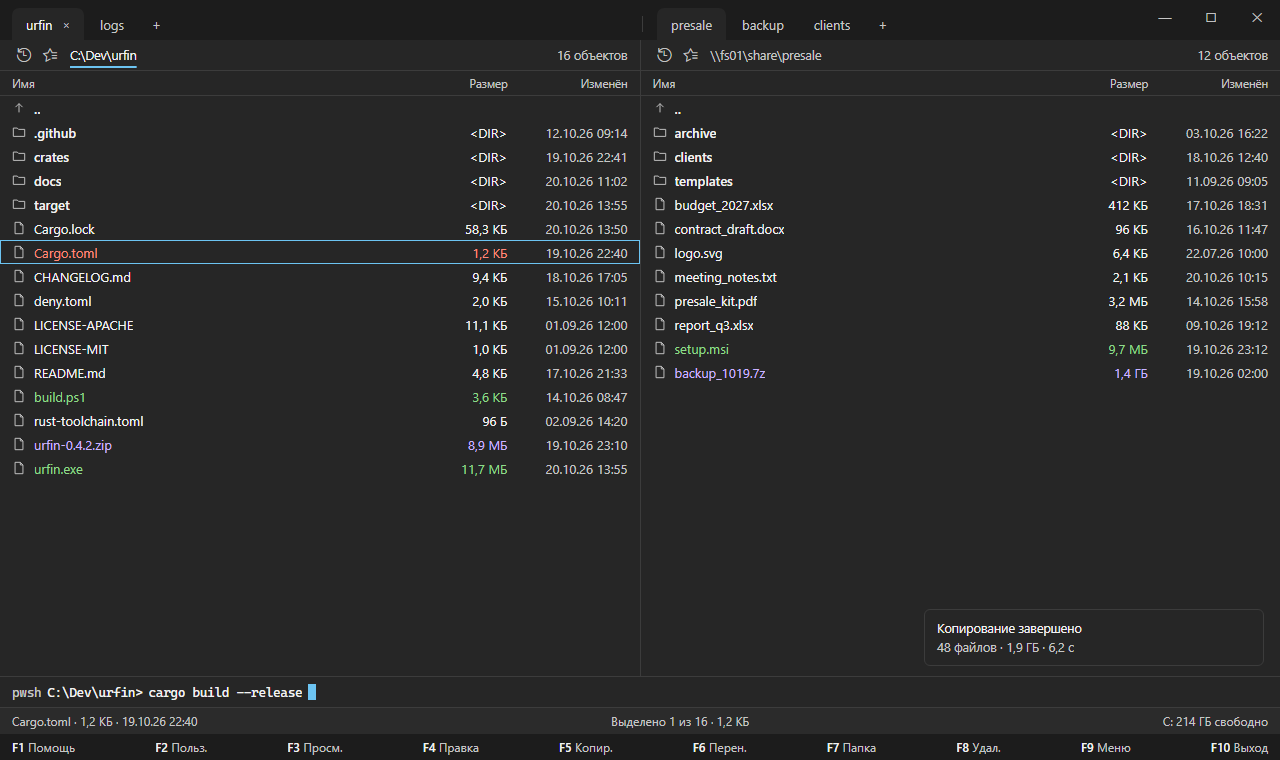
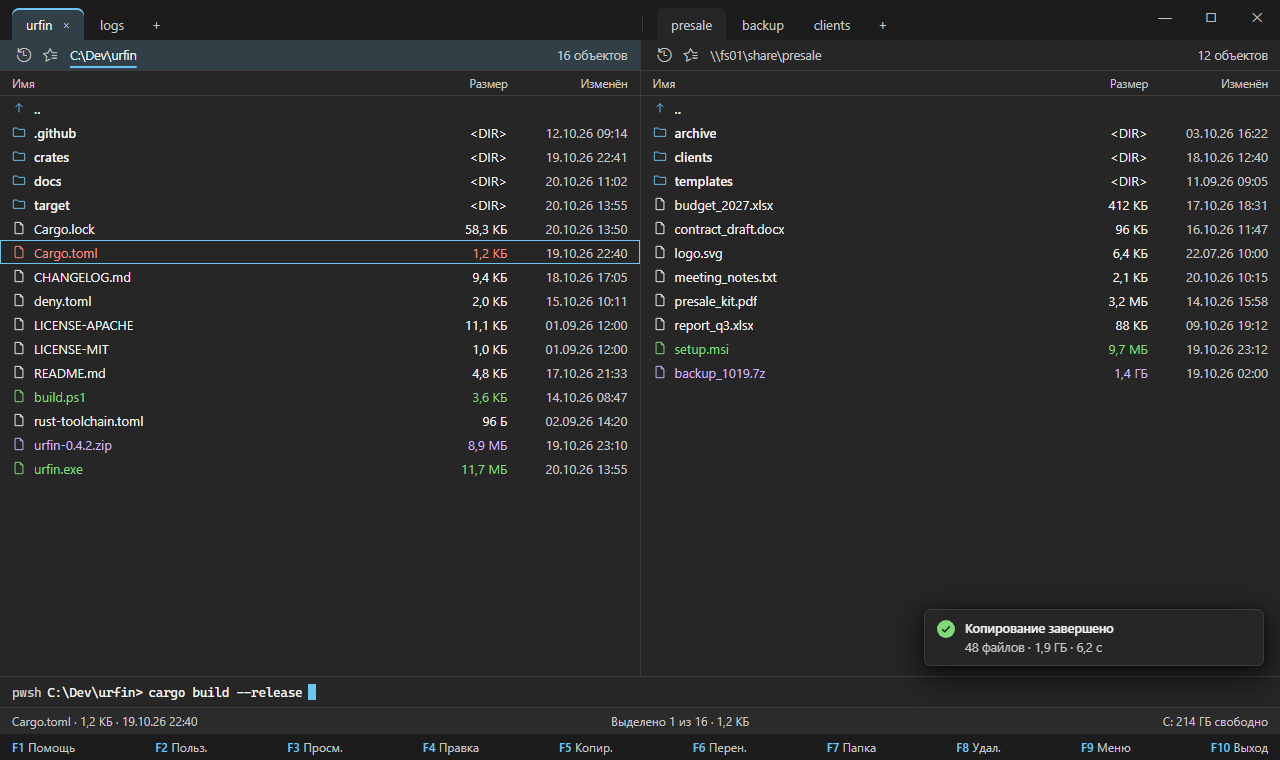
docs(design): палитра B — «ярче и живее» (акценты, цветные иконки, hover, блик)
Запрос владельца 2026-11-01 «чуть раскрасить и оживить»; из вариантов
A/B/C выбран B и из C только подсветка строки при наведении и блик
прогресса; курсор, отметка, тема — мгновенно (№72).

- решение 2026-11-01-colorize; №32/№59 — пометка «уточнено»;
- THEMES.md: роли accent_text, accent_soft, новые modified/exec/archive
  во всех 6 темах, иконки цветные по умолчанию;
- DESIGN: раздел «Палитра B», в «Движении» — наведение на строку и блик;
- window.dc.html: палитра B; перерисованы theme-*, screen-viewer-md,
  screen-editor, screen-editor-md, screen-motion (прочие не менялись);
- карточка D-10 (ui).

Changed region(s): [[0.0, 0.0, 0.5, 0.0908], [0.7188, 0.8171, 0.875, 0.8776], [0.9375, 0.9684, 0.9688, 0.9987]]

diff --git a/docs/design/window.dc.html b/docs/design/window.dc.html
@@ -641,7 +641,7 @@ body{margin:0}
 </span>
 <span style="display: inline-flex; color: {{t.a}}"><svg width="16" height="16" viewBox="0 0 16 16" aria-hidden="true"><path d="M3.5 1.5h6l3 3v10h-9z M9.5 1.5v3h3 M5.5 8h5 M5.5 10.5h5 M5.5 13h3" fill="none" stroke="currentColor" stroke-width="1.1"></path></svg></span>
 <span style="color: {{t.s}}">C:\Dev\urfin</span>
-<span style="{{tagStyle}}">только чтение</span>
+<span style="{{roTagStyle}}">только чтение</span>
 <span style="{{vwEncWrap}}">
 <button type="button" style="{{vwEncBtn}}" aria-label="Кодировка (Shift+F8)">{{vwEncName}}<span style="color: {{t.s}}; font-weight: 400">{{vwEncAuto}}</span><svg width="8" height="8" viewBox="0 0 8 8" aria-hidden="true" style="color: {{t.s}}"><path d="M1 2.5l3 3 3-3" fill="none" stroke="currentColor" stroke-width="1.2"></path></svg></button>
 <sc-if value="{{vwEncOpen}}" hint-placeholder-val="{{ false }}">
@@ -751,7 +751,7 @@ body{margin:0}
 </span>
 <span style="display: inline-flex; color: {{t.a}}"><svg width="16" height="16" viewBox="0 0 16 16" aria-hidden="true"><path d="M5.5 4.5L2 8l3.5 3.5 M10.5 4.5L14 8l-3.5 3.5 M9 3l-2 10" fill="none" stroke="currentColor" stroke-width="1.1"></path></svg></span>
 <span style="color: {{t.s}}">C:\Dev\urfin</span>
-<span style="margin-left: auto; {{tagStyle}}">{{edChanges}}</span>
+<span style="margin-left: auto; {{edChgSt}}"><sc-for list="{{edChgRuns}}" as="cr" hint-placeholder-count="1"><span style="{{cr.st}}">{{cr.x}}</span></sc-for></span>
 </div>
 <sc-if value="{{edBarOn}}" hint-placeholder-val="{{ false }}">
 <div role="toolbar" aria-label="Панель инструментов" style="{{edBarStyle}}">
@@ -1928,7 +1928,7 @@ body{margin:0}
 </div>
 <div style="{{keybarStyle}}">
 <sc-for list="{{keys}}" as="k" hint-placeholder-count="10">
-<span><span style="color: {{t.t}}; font-weight: 500">{{k.k}}</span> {{k.v}}</span>
+<span><span style="color: {{keyCol}}; font-weight: 500">{{k.k}}</span> {{k.v}}</span>
 </sc-for>
 </div>
 <sc-if value="{{zmToastOn}}" hint-placeholder-val="{{ false }}">
@@ -2353,20 +2353,26 @@ body{margin:0}
 </div>
 </div>
 </sc-if>
+<sc-if value="{{palToastOn}}" hint-placeholder-val="{{ false }}">
+<div role="status" style="{{palToastSt}}">
+<span style="{{palToastIco}}"><svg width="12" height="12" viewBox="0 0 16 16" aria-hidden="true"><path d="M3 8.5l3.2 3.2 6.8-7.2" fill="none" stroke="currentColor" stroke-width="2"></path></svg></span>
+<div style="min-width: 0"><div style="color: {{t.t}}; font-weight: 500; margin-bottom: 3px">{{palToast.title}}</div><div style="color: {{t.s}}">{{palToast.text}}</div></div>
+</div>
+</sc-if>
 </div>
 </x-dc>
-<script type="text/x-dc" data-dc-script data-props='{"theme":{"editor":"enum","options":["light","dark","blue","turquoise","grass","sepia","hcblack","hcdesert"],"default":"light"},"screen":{"editor":"enum","options":["panels","settings-ssh","settings-conn","sshpair","sshmulti","sshrec","sshrecview","termhl","sftppanel","sftpcopy","sftpedit","sftplost","sftpsync","sshdrives","sshnew","sshhostkey","sshhostchanged","sshpass","dumap","dutypes","dudups","dutemp","utilmenu","duscan","dulist","ducached","dunoaccess","pkgsearch","pkgmgrpick","pkginstall","pkginstalled","pkgupdates","pkgbanner","settings-pkg","settings-a11y","a11yfocus","a11ysheet","motion","zoomind","link","touch","linkview","syncplan","syncmirror","syncrun","clipcut","clippaste","extract","extractpw","tabsmany","tabsdrag","kit","operror","opbusy","toasterror","settings-ops","settings-policies","settings-viewer","settings-terminal","termsearch","termshell","searchpanel","searchgrep","cmdcomplete","cmdhistory","firstrun","whatsnew","viewerhex","viewerenc","viewerhistory","screens","quickview-enc","history-files","panelhead","editreplace","editgoto","columns","columnswide","usermenu","usermenuedit","jobslist","dragpanel","dragfolder","pack","pack-pw","help","about","bookmarks","history","sort","filter","filtered","attrs","mkdir","mkdirtree","move","rename","journal","multirename","compare","settings-panels","settings-keys","settings-editor","terminal","termhalf","menu","context","select","quick","archive","errors","brief","tree","info","quickview","drives","copy","delete","conflict","progress","search","viewer","viewer-md","editor","editor-md","settings"],"default":"panels"},"density":{"editor":"enum","options":["20","24","28"],"default":"24"},"icons":{"editor":"enum","options":["none","mono","color"],"default":"mono"},"context":{"editor":"enum","options":["none","admin","remote"],"default":"none"},"width":{"editor":"enum","options":["1280","1024","800"],"default":"1280"},"lang":{"editor":"enum","options":["ru","en"],"default":"ru"},"zoom":{"editor":"enum","options":["100","125","150"],"default":"100"},"$preview":{"width":1280,"height":760}}'>
+<script type="text/x-dc" data-dc-script data-props='{"theme":{"editor":"enum","options":["light","dark","blue","turquoise","grass","sepia","hcblack","hcdesert"],"default":"light"},"screen":{"editor":"enum","options":["panels","settings-ssh","settings-conn","sshpair","sshmulti","sshrec","sshrecview","termhl","sftppanel","sftpcopy","sftpedit","sftplost","sftpsync","sshdrives","sshnew","sshhostkey","sshhostchanged","sshpass","dumap","dutypes","dudups","dutemp","utilmenu","duscan","dulist","ducached","dunoaccess","pkgsearch","pkgmgrpick","pkginstall","pkginstalled","pkgupdates","pkgbanner","settings-pkg","settings-a11y","a11yfocus","a11ysheet","motion","zoomind","link","touch","linkview","syncplan","syncmirror","syncrun","clipcut","clippaste","extract","extractpw","tabsmany","tabsdrag","kit","operror","opbusy","toasterror","settings-ops","settings-policies","settings-viewer","settings-terminal","termsearch","termshell","searchpanel","searchgrep","cmdcomplete","cmdhistory","firstrun","whatsnew","viewerhex","viewerenc","viewerhistory","screens","quickview-enc","history-files","panelhead","editreplace","editgoto","columns","columnswide","usermenu","usermenuedit","jobslist","dragpanel","dragfolder","pack","pack-pw","help","about","bookmarks","history","sort","filter","filtered","attrs","mkdir","mkdirtree","move","rename","journal","multirename","compare","settings-panels","settings-keys","settings-editor","terminal","termhalf","menu","context","select","quick","archive","errors","brief","tree","info","quickview","drives","copy","delete","conflict","progress","search","viewer","viewer-md","editor","editor-md","settings"],"default":"panels"},"density":{"editor":"enum","options":["20","24","28"],"default":"24"},"icons":{"editor":"enum","options":["none","mono","color"],"default":"color"},"context":{"editor":"enum","options":["none","admin","remote"],"default":"none"},"width":{"editor":"enum","options":["1280","1024","800"],"default":"1280"},"lang":{"editor":"enum","options":["ru","en"],"default":"ru"},"zoom":{"editor":"enum","options":["100","125","150"],"default":"100"},"$preview":{"width":1280,"height":760}}'>
 class Component extends DCLogic {
 renderVals() {
 const TH = {
-light: {f:"#E9E9E9",p:"#F4F4F4",h:"#EEEEEE",t:"#1B1B1B",s:"#5F5F5F",a:"#0067C0",c:"#D3E3F1",ct:"#1B1B1B",b:"#DCDCDC",k:"#B5402F",ex:"#2E7D32",ar:"#7B4FB0",cl:"#ECECEC",hl:"#F2E3A0",kw:"#1F5FA8",str:"#8A4B12",num:"#6A3FA0",com:"#5F6B76",adm:"#B5402F",rem:"#A86A12",wbg:"#F8EBD3",dbg:"#F7E2DD",sh:"rgba(0,0,0,0.16)"},
-dark: {f:"#1C1C1C",p:"#262626",h:"#2B2B2B",t:"#F2F2F2",s:"#C6C6C6",a:"#6CC4F2",c:"#24557A",ct:"#FFFFFF",b:"#3C3C3C",k:"#FF8A7A",ex:"#8FD98A",ar:"#C9B4FF",cl:"#2E2E2E",hl:"#5C4A1C",kw:"#7FB8F0",str:"#E3B07A",num:"#C9B4FF",com:"#949494",adm:"#FF8A7A",rem:"#FFC46B",wbg:"#3D3220",dbg:"#402622",sh:"rgba(0,0,0,0.55)"},
-blue: {f:"#E1E9F1",p:"#EEF3F8",h:"#E8EEF4",t:"#1E2A36",s:"#576470",a:"#3A6EA5",c:"#D4E3F2",ct:"#1E2A36",b:"#D3DDE8",k:"#B0452F",ex:"#2D7A49",ar:"#7A4FA8",cl:"#E6EDF4",hl:"#F0E2A6",kw:"#2F5F96",str:"#8A4B12",num:"#6A3FA0",com:"#5E6B78",adm:"#B0452F",rem:"#A86A12",wbg:"#F5EAD6",dbg:"#F4E2DE",sh:"rgba(0,0,0,0.16)"},
-turquoise: {f:"#DFEDEB",p:"#EDF5F4",h:"#E6F1EF",t:"#1D2E2D",s:"#526866",a:"#267A75",c:"#CFE9E6",ct:"#1D2E2D",b:"#CFE1DE",k:"#B0502F",ex:"#397C2E",ar:"#7A4FA8",cl:"#E4F0EE",hl:"#F0E2A6",kw:"#1F6F6A",str:"#8A4B12",num:"#6A3FA0",com:"#5A7270",adm:"#B0502F",rem:"#A86A12",wbg:"#F4EAD6",dbg:"#F4E2DC",sh:"rgba(0,0,0,0.16)"},
-grass: {f:"#E3ECDD",p:"#EEF4EA",h:"#E8F0E3",t:"#222D1C",s:"#5C6A54",a:"#457933",c:"#DCEBCF",ct:"#222D1C",b:"#D5E0CC",k:"#A84A2C",ex:"#2C6E8F",ar:"#7A4FA8",cl:"#E6EEE1",hl:"#F0E2A6",kw:"#3E6E2E",str:"#8A4B12",num:"#2C5F8F",com:"#5F6D57",adm:"#A84A2C",rem:"#A86A12",wbg:"#F3E9D4",dbg:"#F3E1DA",sh:"rgba(0,0,0,0.16)"},
+light: {f:"#E9E9E9",p:"#F4F4F4",h:"#EEEEEE",t:"#1B1B1B",s:"#5F5F5F",a:"#0067C0",c:"#D3E3F1",ct:"#1B1B1B",b:"#DCDCDC",k:"#BC2E19",ex:"#19741E",ar:"#8042CA",cl:"#ECECEC",hl:"#F2E3A0",kw:"#1F5FA8",str:"#8A4B12",num:"#6A3FA0",com:"#5F6B76",adm:"#BC2E19",rem:"#A86A12",wbg:"#F8EBD3",dbg:"#F7E2DD",as:"#E0E9F0",at:"#0067C0",sh:"rgba(0,0,0,0.16)"},
+dark: {f:"#1C1C1C",p:"#262626",h:"#2B2B2B",t:"#F2F2F2",s:"#C6C6C6",a:"#6CC4F2",c:"#24557A",ct:"#FFFFFF",b:"#3C3C3C",k:"#FF8C78",ex:"#7FDB78",ar:"#C9B4FF",cl:"#2E2E2E",hl:"#5C4A1C",kw:"#7FB8F0",str:"#E3B07A",num:"#C9B4FF",com:"#949494",adm:"#FF8C78",rem:"#FFC46B",wbg:"#3D3220",dbg:"#402622",as:"#313F47",at:"#6CC4F2",sh:"rgba(0,0,0,0.55)"},
+blue: {f:"#E1E9F1",p:"#EEF3F8",h:"#E8EEF4",t:"#1E2A36",s:"#576470",a:"#3A6EA5",c:"#D4E3F2",ct:"#1E2A36",b:"#D3DDE8",k:"#B83419",ex:"#19733A",ar:"#8242C7",cl:"#E6EDF4",hl:"#F0E2A6",kw:"#2F5F96",str:"#8A4B12",num:"#6A3FA0",com:"#5E6B78",adm:"#B83419",rem:"#A86A12",wbg:"#F5EAD6",dbg:"#F4E2DE",as:"#E0E8F1",at:"#396BA1",sh:"rgba(0,0,0,0.16)"},
+turquoise: {f:"#DFEDEB",p:"#EDF5F4",h:"#E6F1EF",t:"#1D2E2D",s:"#526866",a:"#267A75",c:"#CFE9E6",ct:"#1D2E2D",b:"#CFE1DE",k:"#B24019",ex:"#27751A",ar:"#8444C7",cl:"#E4F0EE",hl:"#F0E2A6",kw:"#1F6F6A",str:"#8A4B12",num:"#6A3FA0",com:"#5A7270",adm:"#B24019",rem:"#A86A12",wbg:"#F4EAD6",dbg:"#F4E2DC",as:"#DDEBEA",at:"#24746F",sh:"rgba(0,0,0,0.16)"},
+grass: {f:"#E3ECDD",p:"#EEF4EA",h:"#E8F0E3",t:"#222D1C",s:"#5C6A54",a:"#457933",c:"#DCEBCF",ct:"#222D1C",b:"#D5E0CC",k:"#B73F18",ex:"#1A6E99",ar:"#8547C8",cl:"#E6EEE1",hl:"#F0E2A6",kw:"#3E6E2E",str:"#8A4B12",num:"#2C5F8F",com:"#5F6D57",adm:"#B73F18",rem:"#A86A12",wbg:"#F3E9D4",dbg:"#F3E1DA",as:"#E0EADB",at:"#437531",sh:"rgba(0,0,0,0.16)"},
 hcblack: {hc:true,f:"#000000",p:"#000000",h:"#000000",t:"#FFFFFF",s:"#A6A6A6",a:"#D6B4FD",c:"#D6B4FD",ct:"#2B2B2B",b:"#FFFFFF",k:"#FFFFFF",ex:"#FFFFFF",ar:"#FFFFFF",cl:"#000000",hl:"#D6B4FD",kw:"#8080FF",str:"#FFFFFF",num:"#FFFFFF",com:"#A6A6A6",adm:"#8080FF",rem:"#8080FF",wbg:"#000000",dbg:"#000000",bt:"#FFEE32",sh:"transparent"},
 hcdesert: {hc:true,f:"#FFFAEF",p:"#FFFAEF",h:"#FFFAEF",t:"#3D3D3D",s:"#676767",a:"#903909",c:"#903909",ct:"#FFF5E3",b:"#3D3D3D",k:"#3D3D3D",ex:"#3D3D3D",ar:"#3D3D3D",cl:"#FFFAEF",hl:"#903909",kw:"#1C5E75",str:"#3D3D3D",num:"#3D3D3D",com:"#676767",adm:"#1C5E75",rem:"#1C5E75",wbg:"#FFFAEF",dbg:"#FFFAEF",bt:"#202020",sh:"transparent"},
-sepia: {f:"#E7DECF",p:"#F2ECE1",h:"#ECE4D7",t:"#3A3128",s:"#6A5E50",a:"#8C6035",c:"#E8DCC6",ct:"#3A3128",b:"#DACFBC",k:"#A8432F",ex:"#4B742C",ar:"#7A4F8F",cl:"#EBE3D6",hl:"#EAD49A",kw:"#7A4A1F",str:"#5E6A2E",num:"#6A3F7A",com:"#7A6C5C",adm:"#A8432F",rem:"#7A6A00",wbg:"#EFDDBE",dbg:"#EED5CB",sh:"rgba(0,0,0,0.16)"}
+sepia: {f:"#E7DECF",p:"#F2ECE1",h:"#ECE4D7",t:"#3A3128",s:"#6A5E50",a:"#8C6035",c:"#E8DCC6",ct:"#3A3128",b:"#DACFBC",k:"#B3341A",ex:"#3D6D19",ar:"#8B3FAF",cl:"#EBE3D6",hl:"#EAD49A",kw:"#7A4A1F",str:"#5E6A2E",num:"#6A3F7A",com:"#7A6C5C",adm:"#B3341A",rem:"#7A6A00",wbg:"#EFDDBE",dbg:"#EED5CB",as:"#EAE1D3",at:"#835A31",sh:"rgba(0,0,0,0.16)"}
 };
 const NAMES = [["light","Системная светлая"],["dark","Системная тёмная"],["blue","Голубая"],["turquoise","Бирюза"],["grass","Травяная"],["sepia","Сепия"]];
 const st = this.state || {};
@@ -2383,7 +2389,7 @@ const mnScr = screenRaw === "screens", mnHist = screenRaw === "viewerhistory", m
 const mnKey = mnScr || mnHist || mnQvEnc || mnHistF ? screenRaw : null;
 const screen = mnScr ? "panels" : mnHist ? "viewer" : mnQvEnc ? "quickview" : mnHistF ? "history" : screenRaw === "panelhead" ? "panels" : screenRaw === "about" ? "settings" : screenRaw.indexOf("settings") === 0 ? "settings" : screenRaw;
 const rowH = parseInt(st.density || this.props.density || "24", 10);
-const iconMode = st.icons || this.props.icons || "mono";
+const iconMode = st.icons || this.props.icons || "color";
 const icons = iconMode !== "none";
 const context = this.props.context || "none";
 const ctx = { on: context !== "none", color: context === "admin" ? t.adm : t.rem, label: context === "admin" ? "Администратор" : "Удалённая сессия" };
@@ -3992,9 +3998,9 @@ const ROWS = [
 ["Встроенная строка · уход", "Enter, Esc", [{ w: 0.36, ms: 83, k: "bez", from: 1, to: 0, c: CA }, { w: 0.64, k: "hold", lab: false }], null, "83", "accelerate", "(1, 0, 1, 1)", "сдвиг 0 → 100 % вниз", "панель под строкой — в том же кадре"],
 ["Тост", "появление · жизнь · исчезновение", [{ w: 0.2, ms: 167, k: "bez", from: 0, to: 1, c: CD }, { w: 0.56, ms: 4000, k: "hold", brk: true }, { w: 0.24, ms: 167, k: "bez", from: 1, to: 0, c: CA }], null, "167 + 4000 + 167", "decel. · accel.", "(0,0,0,1) · (1,0,1,1)", "opacity · сдвиг 8 px справа", "4 с — один таймер, 0 кадров; до 3 тостов"],
 ["Баннер · вспышка", "сбой, первый запуск, новое", [{ w: 0.18, ms: 300, k: "hold", v: 0 }, { w: 0.82, ms: 1400, k: "flash" }], null, "300 + 1 400", "ease-in-out по ключам", "(0.42, 0, 0.58, 1)", "фон t.h ↔ 22 % t.a · 3 пульса", "urfinFlash, один раз; повтор — новое событие"],
-["Прогресс задачи", "строка задачи, F11", [{ w: 1, k: "stairs", pts: [[0.05, 0.1], [0.1, 0.18], [0.16, 0.27], [0.22, 0.34], [0.66, 0.45], [0.72, 0.55], [0.8, 0.63], [0.86, 0.74], [0.93, 0.84]] }], [[0, "0", "start"], [0.44, "нет изменений — 0 кадров"], [1, "", "end"]], "—", "нет · ступень", "по снапшоту", "ширина полосы · % · ETA", "снапшот раз в 33 мс; кадр — только если изменился"],
+["Прогресс задачи", "строка задачи, F11", [{ w: 1, k: "stairs", pts: [[0.05, 0.1], [0.1, 0.18], [0.16, 0.27], [0.22, 0.34], [0.66, 0.45], [0.72, 0.55], [0.8, 0.63], [0.86, 0.74], [0.93, 0.84]] }], [[0, "0", "start"], [0.44, "ширина — ступенью; блик ≤ 30 кадр/с"], [1, "", "end"]], "— · блик 1 500", "ступень · блик standard", "по снапшоту", "ширина · % · ETA; блик 24 % бежит", "снапшот раз в 33 мс; блик — пока задача идёт"],
 ["Поиск · неопределённый", "пока итог неизвестен", [{ w: 0.39, ms: 1500, k: "saw", c: CS }, { w: 0.39, ms: 1500, k: "saw", c: CS }, { w: 0.22, k: "hold", v: 0, lab: "стоп" }], null, "цикл 1 500", "standard", "(0.33, 0, 0.67, 1)", "сдвиг полоски (30 % ширины)", "≤ 30 кадр/с, только пока идёт поиск"],
-["Наведение, нажатие", "кнопки, чипы, пункты", [{ w: 0.26, ms: 83, k: "bez", from: 0, to: 1, c: CS }, { w: 0.48, k: "hold", brk: true }, { w: 0.26, ms: 83, k: "bez", from: 1, to: 0, c: CS }], [[0, "0", "start"], [0.26, "83"], [0.74, "уход"], [1, "+83", "end"]], "83 · 83", "standard", "(0.33, 0, 0.67, 1)", "цвет фона", "S2: 83/167 мс; нажатие — сразу"],
+["Наведение, нажатие", "кнопки, чипы, пункты, строки панели", [{ w: 0.26, ms: 83, k: "bez", from: 0, to: 1, c: CS }, { w: 0.48, k: "hold", brk: true }, { w: 0.26, ms: 83, k: "bez", from: 1, to: 0, c: CS }], [[0, "0", "start"], [0.26, "83"], [0.74, "уход"], [1, "+83", "end"]], "83 · 83", "standard", "(0.33, 0, 0.67, 1)", "цвет фона", "S2: 83/167 мс; нажатие — сразу"],
 ["Прокрутка колесом", "колесо мыши, тачпад", [{ w: 0.62, ms: 167, k: "bez", from: 0, to: 1, c: CS }, { w: 0.38, k: "hold", lab: false }], null, "167", "standard", "(0.33, 0, 0.67, 1)", "смещение списка", "новый щелчок — от текущей точки; тачпад 1:1"],
 ["Курсор панели", "↑ ↓, PgUp/PgDn, Home, клик", INST, INSTL, "0", "мгновенно", "", "фон и рамка курсора, прокрутка", "как DN/Far: прыжок; клавиши листают без плавности"],
 ["Отметка", "Ins, ПКМ, по маске", INST, INSTL, "0", "мгновенно", "", "фон t.c, счётчик в статусе", "строка и счётчик — в одном кадре"],
@@ -4638,6 +4644,45 @@ v.nav = v.nav.map((n) => Object.assign({}, n, { label: EN_NAV[n.label] || n.labe
 if (EN_KEYS[scr]) v.keys = EN_KEYS[scr].map(([k, d]) => ({ k, v: d }));
 else v.keys = v.keys.map((k) => ({ k: k.k.replace("Пробел", "Space").replace("Буква", "Letter"), v: k.v }));
 return walk(v);
+};
+// Палитра B (решение 2026-11-01-colorize): черта и тон активной панели, чипы состояния, keybar, значок тоста, Markdown
+Component.prototype.palBaseVals = Component.prototype.renderVals;
+Component.prototype.renderVals = function () {
+const v = this.palBaseVals();
+const t = v.t;
+Object.assign(v, { roTagStyle: v.tagStyle, edChgSt: v.tagStyle, edChgRuns: [{ x: v.edChanges, st: "" }], keyCol: t.t, palToastOn: false });
+if (t.hc) return v;
+const hx = (h) => [1, 3, 5].map((i) => parseInt(h.slice(i, i + 2), 16));
+const mix = (a, b, k) => { const A = hx(a), B = hx(b); return "#" + A.map((x, i) => Math.round(x * k + B[i] * (1 - k)).toString(16).padStart(2, "0")).join("").toUpperCase(); };
+// активная вкладка активной панели — черта accent 2 сверху; на панелях вкладка и заголовок панели — тон accent_soft
+const actL = !v.twoSets || !v.panels || !v.panels[1] || String(v.panels[0].pathStyle || "").indexOf("underline") >= 0;
+const tabsAct = v.twoSets ? (actL ? v.tabsL : v.tabsR) : v.tabs;
+(tabsAct || []).filter((tb) => /^flex-shrink: 0/.test(tb.style || "")).forEach((tb) => { tb.style += "; box-shadow: inset 0 2px 0 " + t.a + (v.isPanels ? "; background: " + t.as : ""); });
+if (v.isPanels && v.panels && v.twoSets) { const pn = v.panels[actL ? 0 : 1]; pn.vis = (pn.vis ? pn.vis + "; " : "") + "background: linear-gradient(" + t.as + " 0 30px, " + t.p + " 30px)"; }
+// чипы состояния
+v.roTagStyle = v.tagStyle + "; border-color: " + mix(t.a, t.p, 0.5) + "; background: " + t.c + "; color: " + t.ct;
+const chg = /^(\+.+?)( · )(.+)$/.exec(v.edChanges || "");
+if (chg) v.edChgRuns = [{ x: chg[1], st: "color: " + t.ex + "; font-weight: 500" }, { x: chg[2], st: "color: " + t.s }, { x: chg[3], st: "color: " + t.at + "; font-weight: 500" }];
+v.keyCol = t.at;
+// тост: значок в круге 18 (успех — exec)
+if (v.showToast && v.toast && !v.toast.act) {
+v.showToast = false; v.palToastOn = true; v.palToast = v.toast;
+v.palToastSt = "position: absolute; " + v.toastPos + " right: 16px; width: 340px; box-sizing: border-box; padding: 10px 12px; display: flex; gap: 10px; align-items: flex-start; background: " + t.p + "; border: 1px solid " + t.b + "; border-radius: 6px; font-size: 12.5px; " + "filter: drop-shadow(0 8px 16px " + t.sh + ") drop-shadow(0 1px 3px " + t.sh + ")";
+v.palToastIco = "width: 18px; height: 18px; flex: none; margin-top: 0; display: inline-flex; align-items: center; justify-content: center; border-radius: 9px; background: " + t.ex + "; color: " + t.p;
+}
+// Markdown: H2 — первые 40 черты accent, маркеры и цитата — accent, шапка таблицы — accent_soft
+const seen = new Set();
+(v.vwDocs || []).concat(v.edDocs || []).forEach((d) => d.blocks.forEach((bk) => {
+if (seen.has(bk)) return; seen.add(bk);
+if (bk.h && /font-size: 20px/.test(bk.st)) bk.st += "; border-image: linear-gradient(to right, " + t.a + " 0 40px, " + t.b + " 40px) 1";
+if (bk.list) bk.items.forEach((li) => { if (!li.box) li.markSt += "; color: " + t.a; });
+if (bk.quote) bk.st += "; border-left-color: " + t.a;
+if (bk.table) bk.rows[0].st += "; background: " + t.as;
+}));
+// «Сохранить» — accent, пока есть несохранённое
+const save = (v.edBar || []).find((b) => b.btn && /^Сохранить/.test(b.aria || ""));
+if (save) save.st += "; color: " + t.a;
+return v;
 };
 </script>
 </body>

diff --git a/docs/THEMES.md b/docs/THEMES.md
@@ -1,54 +1,54 @@
 # Темы оформления (утверждено 2026-10-20)
 
-Решения — S0-decisions №59–№61, задача — `docs/TASKS-THEMES.md`. Эталон — холст «Урфин — темы оформления» (шаблон окна, экраны F3/F4/F5/F8, поиск, настройки, конфликт, job-бар). Принцип: спокойно, почти ч/б, без чистого белого. Правка палитры — сразу во всех темах. Высокая контрастность — только авто из Windows, в списке тем нет. По умолчанию — «как в ОС» (light/dark + акцент ОС). Mica не используется: фон каркаса сплошной.
+Решения — S0-decisions №59–№61, задача — `docs/TASKS-THEMES.md`. Эталон — холст «Урфин — темы оформления» (шаблон окна, экраны F3/F4/F5/F8, поиск, настройки, конфликт, job-бар). Принцип: спокойно, почти ч/б, без чистого белого; цвет — только там, где он что-то значит (палитра B, [решение 2026-11-01](decisions/2026-11-01-colorize.md): тип, состояние, активная панель, клавиша, итог). Правка палитры — сразу во всех темах. Высокая контрастность — только авто из Windows, в списке тем нет. По умолчанию — «как в ОС» (light/dark + акцент ОС). Mica не используется: фон каркаса сплошной.
 
 **Одна информация — одно место** (№61): имя файла — во вкладке; путь — в заголовке экрана; размер, кодировка, переводы строк, тип — в статус-строке; переключатели режимов — в заголовке; действия по клавишам — в панели клавиш; действия встроенной строки (поиск, подтверждение, конфликт) — на её кнопках с подписью клавиши, в панели клавиш не повторяются.
 
-Роли: frame (каркас/заголовок), panel, header (статус-строка, плашки, подложка номеров строк), text, secondary, accent (акцент ОС в light/dark), cursor, cursor_text, border, current_line (строка редактора), highlight (совпадения поиска), modified, exec, archive, context_admin, context_remote, warning_bg (подложка вопроса/предупреждения — баннер журнала, конфликт), danger_bg (подложка опасного действия — F8); shadow (тень всплывающих объектов: чёрный 16 % в светлых темах, 55 % в тёмной; в высокой контрастности — нет); syntax: keyword, string, number, comment. Контраст text-ролей и syntax к panel ≥4,5:1, text и secondary к warning_bg/danger_bg — тоже; exec не совпадает по тону с accent.
+Роли: frame (каркас/заголовок), panel, header (статус-строка, плашки, подложка номеров строк), text, secondary, accent (акцент ОС в light/dark), accent_text (акцент для текста на `frame`/`header` — клавиши keybar, части чипов; `accent`, затемнённый до ≥4,5:1), accent_soft (тон заголовка и вкладки активной панели, шапки таблицы Markdown; 8 % `accent` на `panel`, в тёмной — 16 %), cursor, cursor_text, border, current_line (строка редактора), highlight (совпадения поиска), modified, exec, archive, context_admin, context_remote, warning_bg (подложка вопроса/предупреждения — баннер журнала, конфликт), danger_bg (подложка опасного действия — F8); shadow (тень всплывающих объектов: чёрный 16 % в светлых темах, 55 % в тёмной; в высокой контрастности — нет); syntax: keyword, string, number, comment. Контраст text-ролей и syntax к panel ≥4,5:1, text и secondary к warning_bg/danger_bg и к accent_soft — тоже; accent_text к frame и header ≥4,5:1; modified, exec, archive к cursor ≥4,5:1 (в тёмной modified и archive — 3,5 и 4,3, как до палитры B: отмеченная строка там — accent + полужирный); exec не совпадает по тону с accent.
 
 ```toml
 [system-light]
 frame="#E9E9E9" panel="#F4F4F4" header="#EEEEEE" text="#1B1B1B" secondary="#5F5F5F"
-accent="#0067C0" cursor="#D3E3F1" cursor_text="#1B1B1B" border="#DCDCDC"
+accent="#0067C0" accent_text="#0067C0" accent_soft="#E0E9F0" cursor="#D3E3F1" cursor_text="#1B1B1B" border="#DCDCDC"
 current_line="#ECECEC" highlight="#F2E3A0"
-modified="#B5402F" exec="#2E7D32" archive="#7B4FB0" context_admin="#B5402F" context_remote="#A86A12" warning_bg="#F8EBD3" danger_bg="#F7E2DD"
+modified="#BC2E19" exec="#19741E" archive="#8042CA" context_admin="#BC2E19" context_remote="#A86A12" warning_bg="#F8EBD3" danger_bg="#F7E2DD"
 syntax = { keyword="#1F5FA8", string="#8A4B12", number="#6A3FA0", comment="#5F6B76" }
 
 [system-dark]
 frame="#1C1C1C" panel="#262626" header="#2B2B2B" text="#F2F2F2" secondary="#C6C6C6"
-accent="#6CC4F2" cursor="#24557A" cursor_text="#FFFFFF" border="#3C3C3C"
+accent="#6CC4F2" accent_text="#6CC4F2" accent_soft="#313F47" cursor="#24557A" cursor_text="#FFFFFF" border="#3C3C3C"
 current_line="#2E2E2E" highlight="#5C4A1C"
-modified="#FF8A7A" exec="#8FD98A" archive="#C9B4FF" context_admin="#FF8A7A" context_remote="#FFC46B" warning_bg="#3D3220" danger_bg="#402622"
+modified="#FF8C78" exec="#7FDB78" archive="#C9B4FF" context_admin="#FF8C78" context_remote="#FFC46B" warning_bg="#3D3220" danger_bg="#402622"
 syntax = { keyword="#7FB8F0", string="#E3B07A", number="#C9B4FF", comment="#949494" }
 
 [blue]
 frame="#E1E9F1" panel="#EEF3F8" header="#E8EEF4" text="#1E2A36" secondary="#576470"
-accent="#3A6EA5" cursor="#D4E3F2" cursor_text="#1E2A36" border="#D3DDE8"
+accent="#3A6EA5" accent_text="#396BA1" accent_soft="#E0E8F1" cursor="#D4E3F2" cursor_text="#1E2A36" border="#D3DDE8"
 current_line="#E6EDF4" highlight="#F0E2A6"
-modified="#B0452F" exec="#2D7A49" archive="#7A4FA8" context_admin="#B0452F" context_remote="#A86A12" warning_bg="#F5EAD6" danger_bg="#F4E2DE"
+modified="#B83419" exec="#19733A" archive="#8242C7" context_admin="#B83419" context_remote="#A86A12" warning_bg="#F5EAD6" danger_bg="#F4E2DE"
 syntax = { keyword="#2F5F96", string="#8A4B12", number="#6A3FA0", comment="#5E6B78" }
 
 [turquoise]
 frame="#DFEDEB" panel="#EDF5F4" header="#E6F1EF" text="#1D2E2D" secondary="#526866"
-accent="#267A75" cursor="#CFE9E6" cursor_text="#1D2E2D" border="#CFE1DE"
+accent="#267A75" accent_text="#24746F" accent_soft="#DDEBEA" cursor="#CFE9E6" cursor_text="#1D2E2D" border="#CFE1DE"
 current_line="#E4F0EE" highlight="#F0E2A6"
-modified="#B0502F" exec="#397C2E" archive="#7A4FA8" context_admin="#B0502F" context_remote="#A86A12" warning_bg="#F4EAD6" danger_bg="#F4E2DC"
+modified="#B24019" exec="#27751A" archive="#8444C7" context_admin="#B24019" context_remote="#A86A12" warning_bg="#F4EAD6" danger_bg="#F4E2DC"
 syntax = { keyword="#1F6F6A", string="#8A4B12", number="#6A3FA0", comment="#5A7270" }
 
 [grass]
 frame="#E3ECDD" panel="#EEF4EA" header="#E8F0E3" text="#222D1C" secondary="#5C6A54"
-accent="#457933" cursor="#DCEBCF" cursor_text="#222D1C" border="#D5E0CC"
+accent="#457933" accent_text="#437531" accent_soft="#E0EADB" cursor="#DCEBCF" cursor_text="#222D1C" border="#D5E0CC"
 current_line="#E6EEE1" highlight="#F0E2A6"
-modified="#A84A2C" exec="#2C6E8F" archive="#7A4FA8" context_admin="#A84A2C" context_remote="#A86A12" warning_bg="#F3E9D4" danger_bg="#F3E1DA"
+modified="#B73F18" exec="#1A6E99" archive="#8547C8" context_admin="#B73F18" context_remote="#A86A12" warning_bg="#F3E9D4" danger_bg="#F3E1DA"
 syntax = { keyword="#3E6E2E", string="#8A4B12", number="#2C5F8F", comment="#5F6D57" }
 # exec не зелёный — не сливается с акцентом
 
 [sepia]
 frame="#E7DECF" panel="#F2ECE1" header="#ECE4D7" text="#3A3128" secondary="#6A5E50"
-accent="#8C6035" cursor="#E8DCC6" cursor_text="#3A3128" border="#DACFBC"
+accent="#8C6035" accent_text="#835A31" accent_soft="#EAE1D3" cursor="#E8DCC6" cursor_text="#3A3128" border="#DACFBC"
 current_line="#EBE3D6" highlight="#EAD49A"
-modified="#A8432F" exec="#4B742C" archive="#7A4F8F" context_admin="#A8432F" context_remote="#7A6A00" warning_bg="#EFDDBE" danger_bg="#EED5CB"
+modified="#B3341A" exec="#3D6D19" archive="#8B3FAF" context_admin="#B3341A" context_remote="#7A6A00" warning_bg="#EFDDBE" danger_bg="#EED5CB"
 syntax = { keyword="#7A4A1F", string="#5E6A2E", number="#6A3F7A", comment="#7A6C5C" }
 ```
 
-Плотность строк 20/24/28 px (умолч. 24). Иконки файлов: нет / Segoe Fluent моно (умолч.) / цветные. Отмеченные файлы — цвет accent + полужирный.
+Плотность строк 20/24/28 px (умолч. 24). Иконки файлов: нет / Segoe Fluent моно / цветные по ролям типов (умолч. с 2026-11-01, палитра B). Отмеченные файлы — цвет accent + полужирный.

diff --git a/docs/decisions/2026-11-01-colorize.md b/docs/decisions/2026-11-01-colorize.md
@@ -1,0 +1,90 @@
+# Палитра B: интерфейс «ярче и живее» — акценты, цветные иконки, наведение, блик
+
+(владелец, 2026-11-01) **Принято.** Запрос владельца: «дизайн чуть раскрасить и оживить». На выбор были три варианта:
+- A — минимальный;
+- B — средний;
+- C — «живой», с движением.
+
+Доски вариантов были в PR #244.
+
+**Выбор владельца:** вариант B и из C только две вещи — подсветка строки при наведении и блик прогресса.
+
+Не приняты: след курсора, затухание отметки и плавная смена темы. №72 в части «курсор, отметка, тема — мгновенно» остаётся.
+
+Уточняет №32 (раскраска по типам) и №59 (темы «спокойные, почти ч/б»), не отменяет их: фон и тексты остаются спокойными. Цвет появляется только там, где он что-то значит: тип, состояние, активная панель, клавиша, итог. Цвета берутся из ролей тем и бренда (иконка: `#1E2A36`, `#6CC4F2`, `#5596BA`). Высокая контрастность Windows не меняется.
+
+## Что меняется
+
+- **Иконки** — цветные по ролям типов по умолчанию (`ui.icons = "color"`):
+  - папки — `accent`;
+  - исполняемые — `exec`;
+  - архивы — `archive`;
+  - изменённые — `modified`;
+  - прочие — `text`.
+- **Активная панель:**
+  - у её активной вкладки — черта 2 px `accent` сверху и фон `accent_soft`;
+  - заголовок панели — фон `accent_soft`;
+  - на экране документа — только черта у вкладки экрана.
+- **Чипы состояния:**
+  - «только чтение» — фон `cursor`, рамка `accent` 50 %;
+  - «+2 добавлено · 1 изменена» — части цветом `exec` и `accent_text`.
+- **Keybar** — клавиши цветом `accent_text`.
+- **Тост** — значок в круге 18:
+  - успех — `exec`;
+  - ошибка — `modified`;
+  - сведения — `accent`.
+- **«Мешочки»** — значки пунктов по тем же ролям.
+- **Markdown** — `accent` у начала черты H2, у маркеров списков и у черты цитаты; шапка таблицы — `accent_soft`.
+- **«Сохранить»** — `accent`, пока есть несохранённое.
+- **Типы №32** насыщеннее: читаются и на отмеченной строке (`cursor`).
+- **Движение:**
+  - наведение на строку панели — фон `current_line`, 83 мс;
+  - блик прогресса — 24 % ширины бежит по заполненной части, цикл 1 500 мс, только пока задача идёт;
+  - эффекты анимации выключены — 0 мс.
+
+Подробно — DESIGN «Палитра B» и таблица «Движение», значения — `docs/THEMES.md`. Снимки: `theme-*.png`, `screen-viewer-md.png`, `screen-editor.png`, `screen-editor-md.png`, `screen-motion.png`.
+
+## Токены тем
+
+| Тема | `accent_text` | `accent_soft` | `modified` | `exec` | `archive` |
+|---|---|---|---|---|---|
+| system-light | `#0067C0` (= accent) | `#E0E9F0` | `#B5402F` → `#BC2E19` | `#2E7D32` → `#19741E` | `#7B4FB0` → `#8042CA` |
+| system-dark | `#6CC4F2` (= accent) | `#313F47` | `#FF8A7A` → `#FF8C78` | `#8FD98A` → `#7FDB78` | `#C9B4FF` (не меняется) |
+| blue | `#396BA1` | `#E0E8F1` | `#B0452F` → `#B83419` | `#2D7A49` → `#19733A` | `#7A4FA8` → `#8242C7` |
+| turquoise | `#24746F` | `#DDEBEA` | `#B0502F` → `#B24019` | `#397C2E` → `#27751A` | `#7A4FA8` → `#8444C7` |
+| grass | `#437531` | `#E0EADB` | `#A84A2C` → `#B73F18` | `#2C6E8F` → `#1A6E99` | `#7A4FA8` → `#8547C8` |
+| sepia | `#835A31` | `#EAE1D3` | `#A8432F` → `#B3341A` | `#4B742C` → `#3D6D19` | `#7A4F8F` → `#8B3FAF` |
+
+`context_admin` = `modified`.
+
+Правила получения значений:
+- `accent_soft` — 8 % `accent` на `panel`, в тёмной теме — 16 %.
+- `accent_text` — `accent`, затемнённый до ≥ 4,5:1 к `frame` и `header`.
+- Типы в светлых темах сделаны насыщеннее при том же оттенке, с контрастом ≥ 5:1 к `panel` и ≥ 4,5:1 к `cursor`.
+- В тёмной теме красный и фиолетовый насыщеннее только ценой контраста, поэтому там меняется в основном `exec`. «Кислотных» цветов нет (№59).
+
+**Контраст (WCAG, проверено):**
+- `text` к `accent_soft` — 9,7–14,0.
+- `secondary` к `accent_soft` — ≥ 4,65.
+- `accent_text` к `frame` — ≥ 4,52, к `header` — ≥ 4,70.
+- Типы к `panel` — ≥ 5,0.
+- Типы к `cursor` — ≥ 4,5 во всех светлых темах. Было 3,9–4,6.
+- К `current_line` — ≥ 4,7.
+- Не ухудшено, как было: в тёмной теме `modified` и `archive` к `cursor` — 3,5 и 4,3.
+
+## Не принято
+
+- **След курсора, затухание отметки (83 мс) и плавная смена темы (167 мс).** Это расходится с принципом DN/Far «курсор — мгновенно». Отклик они бы не замедлили, но владелец выбрал без них.
+- **Вариант A без тонов.** Активная панель осталась бы малозаметной.
+
+## Работа
+
+Карточка [D-10](../tasks/D-10.md), полоса ui, примерно 300–420 строк:
+- роли `accent_text` и `accent_soft` в темах и токенах, тест контраста;
+- новые значения встроенных тем;
+- `IconMode::Color` по умолчанию;
+- вкладка и заголовок активной панели, чипы, keybar, значок тоста, значки «мешочков», стили Markdown, «Сохранить»;
+- состояние наведения строки панели;
+- блик job-бара с учётом `ui.animations` и `SPI_GETCLIENTAREAANIMATION`.
+
+`CONTRACTS.md` не меняется: роли живут в urfin-ui.

diff --git a/docs/design/DESIGN.md b/docs/design/DESIGN.md
@@ -22,7 +22,7 @@
 - Цвет — только роли темы; литералы запрещены (T-01-6). Акцент — только для фокуса/курсора/основной кнопки; красный (`modified`) — для опасного действия; `context_remote` (янтарь) — для «ждёт ответа».
 - **Строки с вопросом**: предупреждение (баннер журнала, конфликт) — весь фон `warning_bg` + черта `context_remote`; опасное действие (F8) — фон `danger_bg` + черта `modified`; обычные (F5, отметка, переименование, сравнение) — фон `header` + черта `accent`. **Кнопки — сразу за текстом/полями**, не прижаты к правому краю: мышь не ходит через всю ширину.
 - Шрифты: интерфейс Segoe UI Variable 13 px; моно Cascadia Mono 12,5–13 px; вторичные подписи 12 px; заголовки колонок 11,5 px. Цифры — tabular.
-- Иконки — Segoe Fluent Icons, монохром `secondary` (на курсоре — `cursor_text`); цветной режим — по ролям типов.
+- Иконки — Segoe Fluent Icons, по умолчанию цветные по ролям типов (папки — `accent`, исполняемые — `exec`, архивы — `archive`, изменённые — `modified`, прочие — `text`); монохромный режим — `secondary` (на курсоре — `cursor_text`). Палитра B — ниже.
 
 ## Метрики окна (px при 100 %)
 | Элемент | Размер | Детали |
@@ -194,10 +194,24 @@
 | Тост | 167 + 4000 + 167 | decelerate, accelerate | opacity, сдвиг 8 справа | жизнь — один таймер, 0 кадров |
 | Баннер — вспышка | 300 + 1400 | ease-in-out | фон `header` ↔ `accent` 22 % | один раз на событие |
 | Прогресс задачи | — | ступень | ширина, %, ETA | снапшот раз в 33 мс, кадр — если изменился |
+| Прогресс — блик (палитра B) | цикл 1500 | standard | блик 24 % ширины бежит по заполненной части (белый 60 %, в тёмной 45 %, края прозрачные) | ≤ 30 кадр/с, только пока задача идёт; пауза, ошибка, вопрос — без блика |
 | Неопределённый прогресс | цикл 1500 | standard (0.33,0,0.67,1) | сдвиг полоски 30 % | ≤ 30 кадр/с, пока идёт поиск |
 | Наведение / нажатие | 83 | standard | фон | нажатие — сразу |
+| Наведение на строку панели (палитра B) | 83 / уход 83 | standard | фон → `current_line` | только мышь; курсор, отметка, клик — как были |
 | Прокрутка колесом / тачпадом | 167 | standard | смещение | тачпад 1:1 |
 | Курсор, отметка, тема, прокрутка клавишами | 0 | — | — | мгновенно (DN/Far) |
+
+## Палитра B — «ярче и живее» (решение 2026-11-01)
+[Решение](../decisions/2026-11-01-colorize.md), роли и значения — `docs/THEMES.md` (`accent_text`, `accent_soft`, новые `modified`/`exec`/`archive`). Снимки: `theme-*.png`, `screen-viewer-md.png`, `screen-editor.png`, `screen-editor-md.png`, `screen-motion.png`; прочие снимки нарисованы до палитры — при расхождении правила здесь важнее снимка. В высокой контрастности палитра не действует.
+- **Иконки** — цветные по ролям типов по умолчанию (`ui.icons = "color"`).
+- **Активная панель:** её активная вкладка — черта 2 `accent` сверху (скругление вкладки сохраняется) и фон `accent_soft`; заголовок панели (30) — фон `accent_soft`. Неактивная панель — как была. На экране документа (вьювер, редактор) — только черта у вкладки экрана.
+- **Чипы состояния:** «только чтение» — фон `cursor`, текст `cursor_text`, рамка `accent` 50 %. «+2 добавлено · 1 изменена» — части `exec` и `accent_text` (500), разделитель `secondary` — как полосы изменений у номеров строк.
+- **Keybar:** клавиши (F1…, Ctrl+…) — `accent_text`, подписи — `secondary`.
+- **Тост:** слева значок в круге 18 (галочка 12, цвет `panel`): успех — `exec`, ошибка — `modified`, сведения — `accent`; текст как был.
+- **«Мешочки»:** значки пунктов — по тем же ролям (диски и папки — `accent`, опасное — `modified`), остальное — `secondary`.
+- **Markdown:** у H2 первые 40 px нижней черты — `accent`; маркеры списков и черта цитаты — `accent`; шапка таблицы — `accent_soft`.
+- **Редактор:** «Сохранить» на панели инструментов — `accent`, пока есть несохранённое.
+- **Движение:** наведение на строку панели и блик прогресса — в таблице «Движение». След курсора, затухание отметки и переход темы рассмотрены и отвергнуты (№72: курсор, отметка, тема — мгновенно).
 
 ## Доступность (`screen-a11yfocus.png`, `screen-a11ysheet.png`)
 - Порядок Tab во встроенной строке — слева направо, по кругу; Shift+Tab — назад; Esc — фокус в панель. Фокус-кольцо — только при клавиатуре: 2 `text` снаружи + 1 `panel` внутри, скругление элемента + 2; у курсора панели — своя рамка `accent`.

diff --git a/docs/specs/S0-decisions.md b/docs/specs/S0-decisions.md
@@ -50,7 +50,7 @@
 | # | Вопрос | Решение |
 |---|---|---|
 | 31 | Курсор и помеченные | как в Проводнике: помеченные — заливка `bg-accent` + `text-accent`; курсор — рамка фокуса 1 px (`border-stronger`). Переопределяет мокапы S2 |
-| 32 | Раскраска по типам | мягкие цвета по умолчанию: архивы — violet, исполняемые (exe/msi/ps1/bat/cmd/sh) — green, временные/резервные (`~$*`, `*.tmp`, `*.bak`) — warning, скрытые/системные — muted. Правила в `[ui.colors]` |
+| 32 | Раскраска по типам | мягкие цвета по умолчанию: архивы — violet, исполняемые (exe/msi/ps1/bat/cmd/sh) — green, временные/резервные (`~$*`, `*.tmp`, `*.bak`) — warning, скрытые/системные — muted. Правила в `[ui.colors]` — *уточнено 2026-11-01, см. [decisions/2026-11-01-colorize.md](../decisions/2026-11-01-colorize.md)* |
 | 33 | Mica | только «каркас»; панели непрозрачные |
 
 ## Волна 3 (S7, S8, S9)
@@ -81,7 +81,7 @@
 | 56 | Визуал на GPUI | Своя тема **Fluent** поверх gpui-kit (токены S2: акцент и light/dark из ОС, строки 24 px, №31–№33); Mica — через DWM в `ui::sys`; родной стиль gpui-kit (shadcn) не используем |
 | 57 | Платформы | **Только Windows** (владелец, 2026-10-20): Linux и macOS не собираются и не проверяются — ни на стенде, ни в CI (джобы ubuntu/macos в `test` убраны). Заменяет «macOS в пассиве, Linux tier 2» в «Платформы (обновлено)»; задачи S4-08/S4-09, адаптер `notify`, mac-части — сняты |
 | 58 | Зависимости | (владелец, 2026-10-21) Полезную, эффективную и лицензионно чистую зависимость (проходит `cargo deny`: лицензии, советники, дубли) **берём без отдельного согласования**; свой код — только там, где готовое медленнее или не подходит. Сначала: `trash` (корзина, S5-13; на Windows — `IFileOperation`), `remove_dir_all` (удаление дерева, S5-09; база для бенча своего параллельного), `filetime` (время файлов, S5-06/22). Новая зависимость — строкой в описании PR (крейт, зачем, лицензия). Заменяет требование согласовывать каждую зависимость (S0 v3 «Зависимости») |
-| 59 | Темы оформления | (владелец, 2026-10-20) Свои у Урфина, не общие для Pets. По умолчанию «как в ОС»; встроенные: системная светлая и тёмная, голубая, бирюза, травяная, сепия — спокойные, почти ч/б, без чистого белого; кислотных и ретро нет. Высокая контрастность — авто из Windows. Плотность 24 px, иконки Segoe Fluent моно. Палитры — `docs/THEMES.md`, задача — `docs/TASKS-THEMES.md` |
+| 59 | Темы оформления | (владелец, 2026-10-20) Свои у Урфина, не общие для Pets. По умолчанию «как в ОС»; встроенные: системная светлая и тёмная, голубая, бирюза, травяная, сепия — спокойные, почти ч/б, без чистого белого; кислотных и ретро нет. Высокая контрастность — авто из Windows. Плотность 24 px, иконки Segoe Fluent моно. Палитры — `docs/THEMES.md`, задача — `docs/TASKS-THEMES.md` — *уточнено 2026-11-01, см. [decisions/2026-11-01-colorize.md](../decisions/2026-11-01-colorize.md)* |
 | 60 | Mica | (владелец, 2026-10-20) **Не используем**, фон каркаса сплошной — отменяет №33 и Mica в №56 (DirectComposition выключена ради живого ресайза — Mica за содержимым невидима) |
 | 61 | Одна информация — одно место | (владелец, 2026-10-20) Одно и то же не показывается в двух местах окна: имя файла — вкладка, путь — заголовок экрана, свойства файла — статус-строка, режимы — заголовок, клавиши встроенной строки — на её кнопках (не в keybar) |
 | 62 | Иконка приложения | (владелец, 2026-10-20) Монограмма «U» из двух панелей-столбиков на графитовой плитке; `assets/icon`, генератор `scripts/icon/make_icon.py` |

diff --git a/docs/tasks/D-10.md b/docs/tasks/D-10.md
@@ -1,0 +1,25 @@
+# D-10: Палитра B: акценты, цветные иконки, hover, блик
+
+lane: ui
+deps: []
+class: A
+files: [crates/ui/src/theme/, crates/ui/src/tokens/, crates/ui/src/config.rs, crates/ui/src/gpui_shell/]
+read: [docs/decisions/2026-11-01-colorize.md, docs/THEMES.md, docs/design/DESIGN.md]
+checks: [nextest, screens:theme-system-light,theme-system-dark,theme-blue,theme-turquoise,theme-grass,theme-sepia,screen-viewer-md,screen-editor,screen-editor-md]
+manual: yes
+
+## Сделать
+- Темы: роли `accent_text`, `accent_soft` и новые `modified`/`exec`/`archive`/`context_admin` во всех 6 встроенных (`theme/builtin/*.toml`, по `docs/THEMES.md`); в токенах — пары, тест контраста (≥ 4,5 к `panel`, `frame`/`header`, `accent_soft`, `cursor` — как в THEMES).
+- `IconMode::Color` по умолчанию (`ui.icons`), тесты конфига.
+- Активная панель: черта 2 `accent` сверху у её активной вкладки и фон `accent_soft` у вкладки и заголовка панели; на экране документа — только черта.
+- Чипы «только чтение» и «+N добавлено · M изменена» (шапки вьювера и редактора), клавиши keybar — `accent_text`, значок тоста в круге 18 (успех/ошибка/сведения), значки пунктов «мешочков» по ролям, стили Markdown (H2, маркеры, цитата, шапка таблицы), «Сохранить» — `accent` при несохранённом.
+- Движение: наведение на строку панели (`current_line`, 83 мс, только мышь) и блик job-бара (24 %, цикл 1 500 мс, ≤ 30 кадр/с, только пока задача идёт); `ui.animations = false` или эффекты Windows выкл. — без анимации.
+- Высокая контрастность — без изменений.
+
+## Приёмка
+- снимки сцен совпадают с макетами (`theme-*.png`, `screen-viewer-md.png`, `screen-editor*.png`);
+- тесты контраста ролей проходят для всех 6 тем;
+- в простое 0 кадров: наведение и блик рисуют кадры только при движении мыши / активной задаче; бюджет кадра p50 ≤ 3 мс (решение 2026-10-29).
+
+## Заметка
+- Не делать: след курсора, затухание отметки, переход темы — отвергнуты (решение 2026-11-01-colorize).

diff --git a/docs/decisions/README.md b/docs/decisions/README.md
@@ -9,6 +9,7 @@
 | Дата | Решение |
 |---|---|
 | 2026-11-01 | [Редактор — свой движок для файлов любого размера](2026-11-01-editor-engine.md) |
+| 2026-11-01 | [Палитра B: интерфейс «ярче и живее» — акценты, цветные иконки, наведение, блик](2026-11-01-colorize.md) |
 | 2026-11-01 | [Меню — «мешочек» от видимой кнопки; клавиша открывает его там же](2026-11-01-anchored-menus.md) |
 | 2026-10-31 | [Ответ на вопрос выхода — handler'у, наложившему вето](2026-10-31-quit-reply.md) |
 | 2026-10-30 | [Видимая область вьювера: событие `InboxMsg::Viewport`](2026-10-30-viewer-viewport.md) |

diff --git a/docs/tasks/README.md b/docs/tasks/README.md
@@ -79,6 +79,7 @@ S6-03, S3-08, S4-08, S4-09 — отменены (только Windows, №57); F
 | Задача | Суть | Полоса | Класс | Зависит |
 |---|---|---|---|---|
 | [D-07](D-07.md) | Экраны поиска, просмотра и редактора | ui | A | S7-07, S7-10, S7-13, S7-16, S7-18, S7-21, S8-05, S8-06 |
+| [D-10](D-10.md) | Палитра B: акценты, цветные иконки, hover, блик | ui | A | — |
 
 ## F-00 Политики
 
